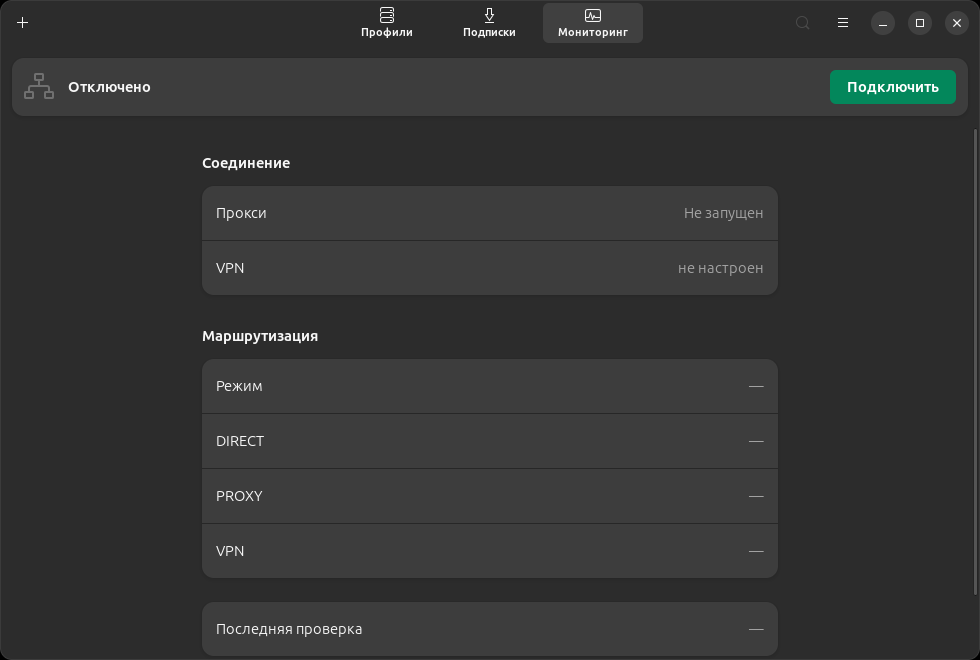
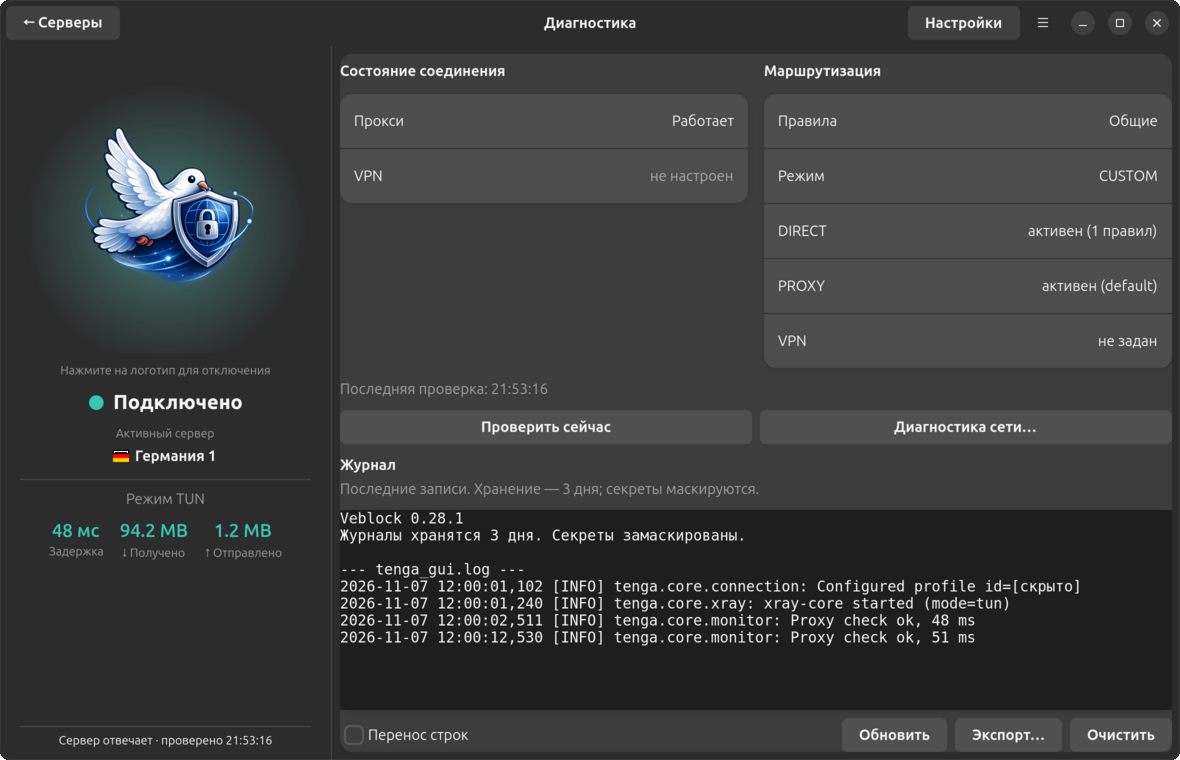
docs: интерфейс Linux после переноса компоновки

diff --git a/docs/ru/gui.md b/docs/ru/gui.md
@@ -8,43 +8,38 @@
 python gui.py
 ```
 
-## Основное окно
+## Главное окно
 
-Основное окно приложения содержит следующие элементы:
+Окно одинаково на Linux (GTK) и Windows (Qt), кроме логотипа: на Linux это
+голубь, на Windows — монолит.
 
-- **Системный трей** с быстрым подключением/отключением
-- **Управление серверами** - просмотр, добавление, редактирование и удаление
-- **Настройки DNS, VPN и маршрутов** - гибкая конфигурация подключения
-- **Статистика подключений и задержки** - мониторинг производительности
+![Главное окно](../../assets/screen-profiles.png)
 
-## Вкладка "Серверы"
+Слева всегда видна панель состояния: логотип, состояние сессии, активный
+сервер, режим, задержка и трафик, внизу — результат последней проверки.
+Нажмите на логотип, чтобы подключиться или отключиться; во время операции он
+недоступен. Свечение под логотипом бирюзовое при запущенной сессии, оранжевое
+во время операции и красное при ошибке. «Подключено» само по себе не значит,
+что сервер отвечает: это показывает строка проверки.
 
-На вкладке "Серверы" вы можете:
+Справа — серверы: поиск, «Добавить…» (сервер по ссылке, из буфера обмена,
+подписка, группа), «Сортировка» и группы. Каждая строка показывает имя, тип,
+адрес и задержку, кнопку «Пинг» и меню действий. Активный сервер отмечен
+бирюзовым маркером и подписью «Подключён». Выделение другой строки не меняет
+соединение: для смены сервера нажмите «Переключить на выбранный» под списком.
+Enter и двойной щелчок по строке подключают сразу. «Проверить задержку» внизу
+измеряет все серверы.
 
-- Просматривать список серверов, сгруппированных по категориям
-- Добавлять новые серверы из share-ссылок
-- Редактировать существующие серверы
-- Удалять ненужные серверы
-- Тестировать задержку до серверов
-- Подключаться к выбранному серверу
+### Диагностика
 
-## Вкладка "Подписки"
+Кнопка «Диагностика» под списком открывает в правой части состояние соединения
+и VPN, действующие правила маршрутизации и журнал; «← Серверы» в шапке
+возвращает список с прежним запросом, выделением и прокруткой.
 
-На вкладке "Подписки" вы можете:
+![Диагностика](../../assets/screen-monitoring.png)
 
-- Добавлять новые подписки
-- Обновлять существующие подписки
-- Редактировать параметры подписок
-- Удалять подписки
-
-## Вкладка "Диагностика"
-
-На вкладке "Диагностика" отображается:
-
-- Статус прокси-соединения
-- Статус VPN-соединения (если используется)
-- Время последней проверки
-- Возможность ручной проверки соединений
+Здесь же «Проверить сейчас» и «Диагностика сети…» — отдельная ручная проверка
+сети.
 
 Статус прокси — это не «процесс ядра запущен», а результат запроса через
 сам сервер: приложение обращается к проверочному адресу через служебный
@@ -126,11 +121,12 @@ python gui.py
 
 ## Внешний вид
 
-Интерфейс следует GNOME HIG и использует системную тему: светлая и тёмная
-приходят из настроек рабочего стола, отдельного переключателя в приложении нет.
+Интерфейс на Linux следует GNOME HIG и по умолчанию использует системную тему.
 
-Окно адаптивное. При ширине меньше 550 точек переключатель вкладок переезжает
-из шапки вниз, поэтому приложением удобно пользоваться и в узком окне.
+Окно не сжимается меньше 900×540. Когда высота меньше 680 точек, панель
+состояния становится компактной: логотип и подписи меньше, а все данные на
+месте. Тему — системную, светлую или тёмную — можно выбрать в «Настройки» →
+«Общие».
 
 ### Сохранение и применение настроек
 
@@ -162,35 +158,25 @@ current_config.json и файлы серверов в экспорт не вхо
 - [Настройки DNS](../screenshots/2026-10-20-settings.png).
 - [Журнал](../screenshots/2026-10-20-monitoring.png).
 
+## Окно настроек
 
-## Окно Windows (Qt)
+Настройки открываются отдельным окном с семью разделами: «Общие»,
+«Мониторинг», «DNS», «Маршрутизация», «Обход блокировок», «Подписки» и
+«О программе». Строка внизу сообщает, ждёт ли изменение записи, записано ли оно
+и нужно ли переподключение. В режиме системного прокси параметры TUN скрыты, а
+при возврате к TUN их значения сохраняются.
 
-Слева постоянно показаны монолит подключения, состояние сессии, активный сервер,
-режим, трафик и результат проверки. Нажмите монолит для подключения или отключения;
-во время операции он недоступен. Свечение бирюзовое при запущенной сессии,
-оранжевое во время операции, красное при ошибке. Успешность сетевой проверки
-указана отдельно: «Подключено» само по себе не подтверждает доступность сервера.
+Подписки живут в разделе «Подписки»: список, «Добавить…», «Обновить»,
+«Изменить…» и «Удалить» действуют на выбранную подписку. Формы, открытые
+отсюда, появляются поверх настроек.
 
-Справа находятся поиск, добавление, сортировка и группы серверов. Каждая строка
-показывает имя, тип, адрес и задержку. Активный сервер отмечен бирюзовым маркером
-и подписью «Подключён». Выделение другой строки не меняет соединение:
-для смены сервера нажмите «Переключить на выбранный» под списком. Имя цели
-показано рядом. Enter и двойной щелчок сохраняют действие подключения.
+![Подписки в настройках](../../assets/screen-subscriptions.png)
 
-Кнопка «Диагностика» открывает сводку, маршрутизацию и журнал внутри правой
-области. «Серверы» возвращает прежний список с запросом, выделением и прокруткой.
-В журнале доступны перенос строк, обновление, экспорт с маскированием секретов
-и очистка с подтверждением. «Диагностика сети…» остаётся отдельной проверкой.
+В «Общие» → «Окно» есть переключатель «Сворачивать в трей при закрытии окна»: пока
+иконка в трее видна, закрытие окна только прячет его, иначе закрывает
+приложение.
 
-Настройки открываются отдельным окном с семью разделами. Изменения сохраняются
-автоматически после короткой паузы; строка внизу сообщает об ожидании, записи
-или ошибке. Невалидные значения не записываются. Изменения рабочей сессии требуют
-явного переподключения. В режиме системного прокси параметры TUN скрыты;
-при возврате к TUN значения сохраняются. Светлая, тёмная и системная темы доступны
-в разделе «Общие», тема меняется сразу.
-
-[Главное окно](../design/windows-ui/main-dark-1180.png) ·
-[Диагностика](../design/windows-ui/diagnostics.png) ·
-[Настройки](../design/windows-ui/settings.png).
-Снимки содержат синтетические данные. Вкладки, описанные выше, относятся к GTK
-на Linux; двухколоночная навигация — намеренное отличие Qt.
+Снимки Qt-окна на Windows: [главное окно](../design/windows-ui/main-dark-1180.png) ·
+[диагностика](../design/windows-ui/diagnostics.png) ·
+[настройки](../design/windows-ui/settings.png). Все снимки содержат синтетические
+данные.

diff --git a/docs/en/gui.md b/docs/en/gui.md
@@ -10,41 +10,36 @@ python gui.py
 
 ## Main Window
 
-The main application window contains the following elements:
+The window is the same on Linux (GTK) and Windows (Qt) except for the logo:
+a dove on Linux, a monolith on Windows.
 
-- **System tray** with quick connect/disconnect
-- **Server management** - view, add, edit, and delete servers
-- **DNS, VPN, and routing settings** - flexible connection configuration
-- **Connection statistics and latency** - performance monitoring
+![Main window](../../assets/screen-profiles.png)
 
-## "Servers" Tab
+The status panel always stays on the left: the logo, the session state, the
+active server, the mode, latency and traffic, and the result of the last check
+at the bottom. Click the logo to connect or disconnect; it is disabled during an
+operation. The glow under the logo is teal while a session runs, orange during an
+operation and red on an error. "Connected" alone does not mean the server
+answers: the check line reports that.
 
-On the "Servers" tab you can:
+The right side holds the servers: search, "Add…" (server from a link, from the
+clipboard, subscription, group), "Sort" and the groups. Each row shows the name,
+type, address and latency, a "Ping" button and an actions menu. The active server
+has a teal marker and a "Connected" label. Selecting another row does not change
+the connection: use "Switch to selected" below the list. Enter and double-click
+connect right away. "Test latency" at the bottom measures all servers.
 
-- Browse server lists grouped by categories
-- Add new servers from share links
-- Edit existing servers
-- Delete unwanted servers
-- Test server latency
-- Connect to selected server
+### Diagnostics
 
-## "Subscriptions" Tab
+The "Diagnostics" button below the list replaces the right side with the
+connection and VPN state, the active routing rules and the log; "← Servers" in
+the header bar brings the list back with the same query, selection and scroll
+position.
 
-On the "Subscriptions" tab you can:
+![Diagnostics](../../assets/screen-monitoring.png)
 
-- Add new subscriptions
-- Update existing subscriptions
-- Edit subscription parameters
-- Delete subscriptions
-
-## "Diagnostics" Tab
-
-The "Diagnostics" tab displays:
-
-- Proxy connection status
-- VPN connection status (if used)
-- Last check time
-- Manual connection check capability
+"Check now" and "Network diagnostics…" (a separate manual network check) are
+there too.
 
 The proxy status is not "the core process is running" but the result of a
 request through the server itself: the application reaches the test URL via
@@ -116,38 +111,30 @@ The full list is available from the "☰" menu → "Keyboard Shortcuts".
 
 ## Appearance
 
-The interface follows the GNOME HIG and uses the system theme: light and dark
-come from the desktop settings, there is no separate switch in the application.
+On Linux the interface follows the GNOME HIG and uses the system theme by
+default; Settings → General lets you pick system, light or dark.
 
-The window is adaptive. Below 550 points wide the view switcher moves from the
-header bar to the bottom, so the application stays usable in a narrow window.
+The window does not shrink below 900×540. When it is lower than 680 points the
+status panel becomes compact: a smaller logo and captions, with all the data
+still in place.
 
+## Settings Window
 
-## Windows window (Qt)
+Settings open in a separate window with seven sections: General, Monitoring,
+DNS, Routing, Censorship bypass, Subscriptions and About. Changes are saved
+automatically; the footer tells whether a change is pending, written, or needs a
+reconnect. Invalid values are not written. In system proxy mode the TUN fields
+are hidden, and their values are kept for when you return to TUN.
 
-The connection panel stays on the left. Click the monolith to connect or
-disconnect; it is disabled during an operation. Teal indicates a running session,
-orange an operation, and red an error. The separate health message reports whether
-connectivity has actually been checked.
+Subscriptions live in the Subscriptions section: "Add…", "Update", "Edit…" and
+"Delete" act on the selected subscription. Forms opened from there appear on
+top of the settings.
 
-The right side contains search, add and sorting menus, groups and two-line server
-rows. The active server has a teal marker and a Connected label. Selecting another
-row does not switch the session: use the explicit switch action below the list,
-where the target name is displayed. Enter and double-click retain their connection
-action.
+![Subscriptions in settings](../../assets/screen-subscriptions.png)
 
-Diagnostics replaces the right pane with connection status, routing and the log.
-Back to Servers restores search, selection and scrolling. Log refresh runs only
-while visible; export masks secrets, and clearing requires confirmation. Network
-diagnostics remains a separate action.
+General → Window has "Minimize to tray when the window is closed": while the
+tray icon is visible, closing the window only hides it; otherwise it quits.
 
-Settings opens a separate window with the six existing sections and automatic
-saving. Its footer distinguishes pending changes, a successful write and errors.
-Invalid values are not written. Runtime changes need an explicit reconnect; theme
-changes apply immediately. TUN fields are hidden in system proxy mode while their
-values are preserved. Light, dark and system themes remain available.
-
-[Synthetic main window](../design/windows-ui/main-dark-1180.png),
-[diagnostics](../design/windows-ui/diagnostics.png),
-[settings](../design/windows-ui/settings.png).
-The tab navigation described above applies to GTK on Linux.
+Qt window on Windows: [main window](../design/windows-ui/main-dark-1180.png) ·
+[diagnostics](../design/windows-ui/diagnostics.png) ·
+[settings](../design/windows-ui/settings.png). All screenshots use synthetic data.

diff --git a/README.md b/README.md
@@ -17,8 +17,10 @@ Veblock (раньше Tenga Proxy) — прокси-клиент для Linux и
 прокси весь трафик системы или только выбранные сайты.
 
 На Linux интерфейс написан на GTK 4 и libadwaita и выглядит как обычное
-приложение GNOME, на Windows — на Qt в системном стиле. Светлая или тёмная
-тема берётся из настроек системы.
+приложение GNOME, на Windows — на Qt в системном стиле. Окно устроено одинаково:
+слева панель состояния, справа серверы; отличается только логотип — голубь на
+Linux, монолит на Windows. Тема по умолчанию системная, светлую или тёмную
+можно выбрать в настройках.
 
 ## Возможности
 
@@ -70,32 +72,35 @@ Qt и xray-core входят в установщик.
 
 ### Добавить сервер
 
-Нажмите **＋** в шапке окна и вставьте ссылку подключения. Приложение
-разберёт её само: имя, адрес и протокол заполнятся автоматически.
+Нажмите **Добавить… → Сервер по ссылке…** над списком и вставьте ссылку
+подключения. Приложение разберёт её само: имя, адрес и протокол заполнятся
+автоматически.
 
 ![Добавление сервера](assets/screen-add-profile.png)
 
-Если у вас есть ссылка на подписку, выберите **＋ → Подписка** — список
-серверов загрузится целиком и будет обновляться по кнопке.
+Если у вас есть ссылка на подписку, выберите **Добавить… → Подписка…** —
+список серверов загрузится целиком. Подписки собраны в **Настройки →
+Подписки**: там их можно обновить, изменить или удалить.
 
 ![Подписки](assets/screen-subscriptions.png)
 
 ### Подключиться
 
-Выберите сервер в списке и нажмите **Подключить**. Двойной клик по строке
-подключает сразу.
+Выберите сервер в списке и нажмите на логотип в панели слева. Двойной клик по
+строке подключает сразу. Пока соединение работает, выделение другой строки его
+не меняет: для смены сервера нажмите **Переключить на выбранный** под списком.
 
-Колонка **Задержка** показывает задержку до сервера. Чтобы измерить её у всех
-сразу, нажмите `Ctrl+T`.
+Задержка до сервера видна справа в строке. Чтобы измерить её у всех сразу,
+нажмите **Проверить задержку** или `Ctrl+T`.
 
 ### Проверить состояние
 
-Вкладка **Диагностика** показывает, работает ли прокси, поднят ли VPN и какие
-правила маршрутизации сейчас действуют.
+Кнопка **Диагностика** под списком показывает, работает ли прокси, поднят ли
+VPN, какие правила маршрутизации сейчас действуют, и журнал.
 
 ![Диагностика](assets/screen-monitoring.png)
 
-Кнопка **Проверить сеть…** там же, пункт меню **Диагностика сети…** или `Ctrl+D` открывают
+Кнопка **Диагностика сети…** там же, одноимённый пункт главного меню или `Ctrl+D` открывают
 проверку сети. Она запускается только вручную и идёт до 3 минут, до 8 МиБ данных плюс
 служебный трафик. Запросы идут напрямую, настройки не меняются. Если включена блокировка
 трафика, прямые запросы не выполняются, и окно это объясняет.
